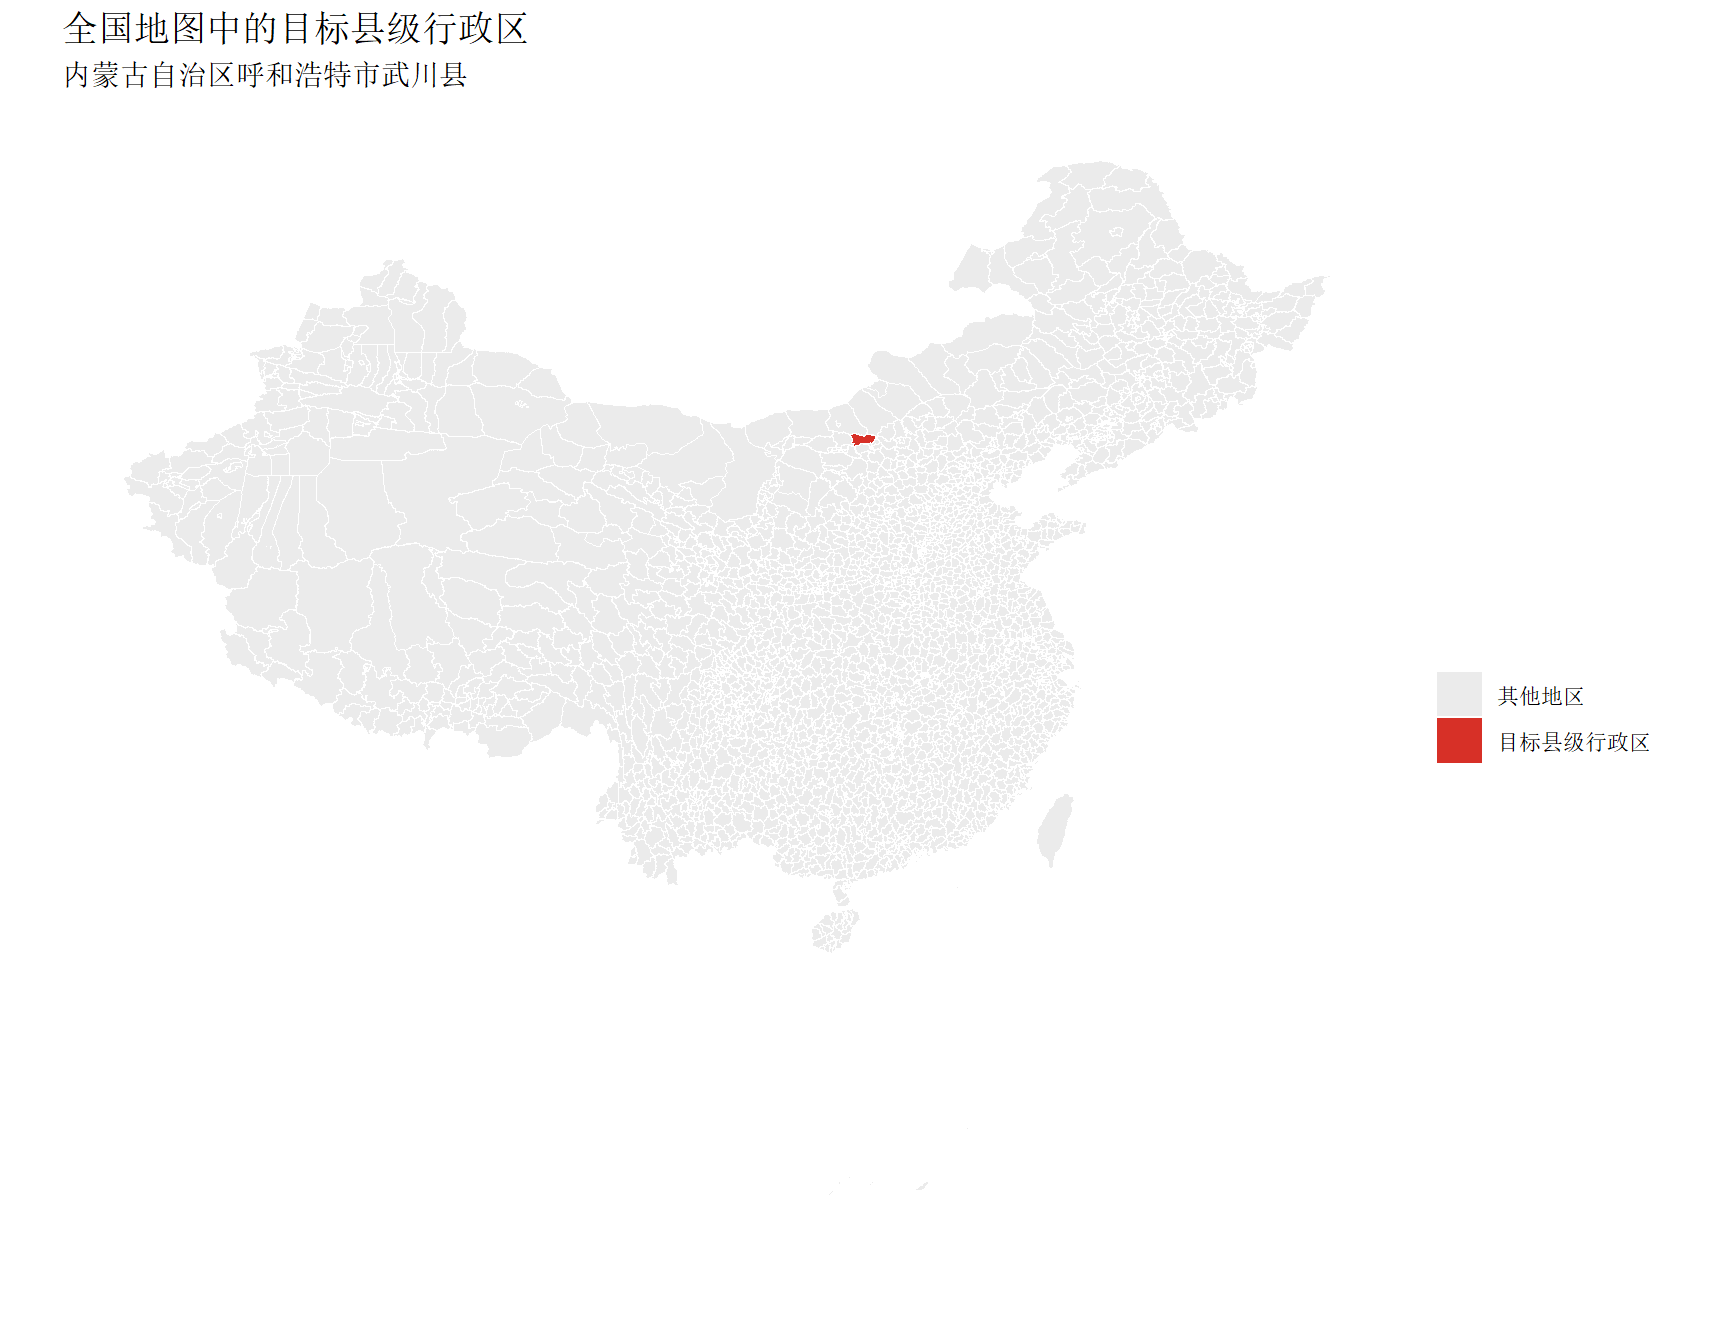
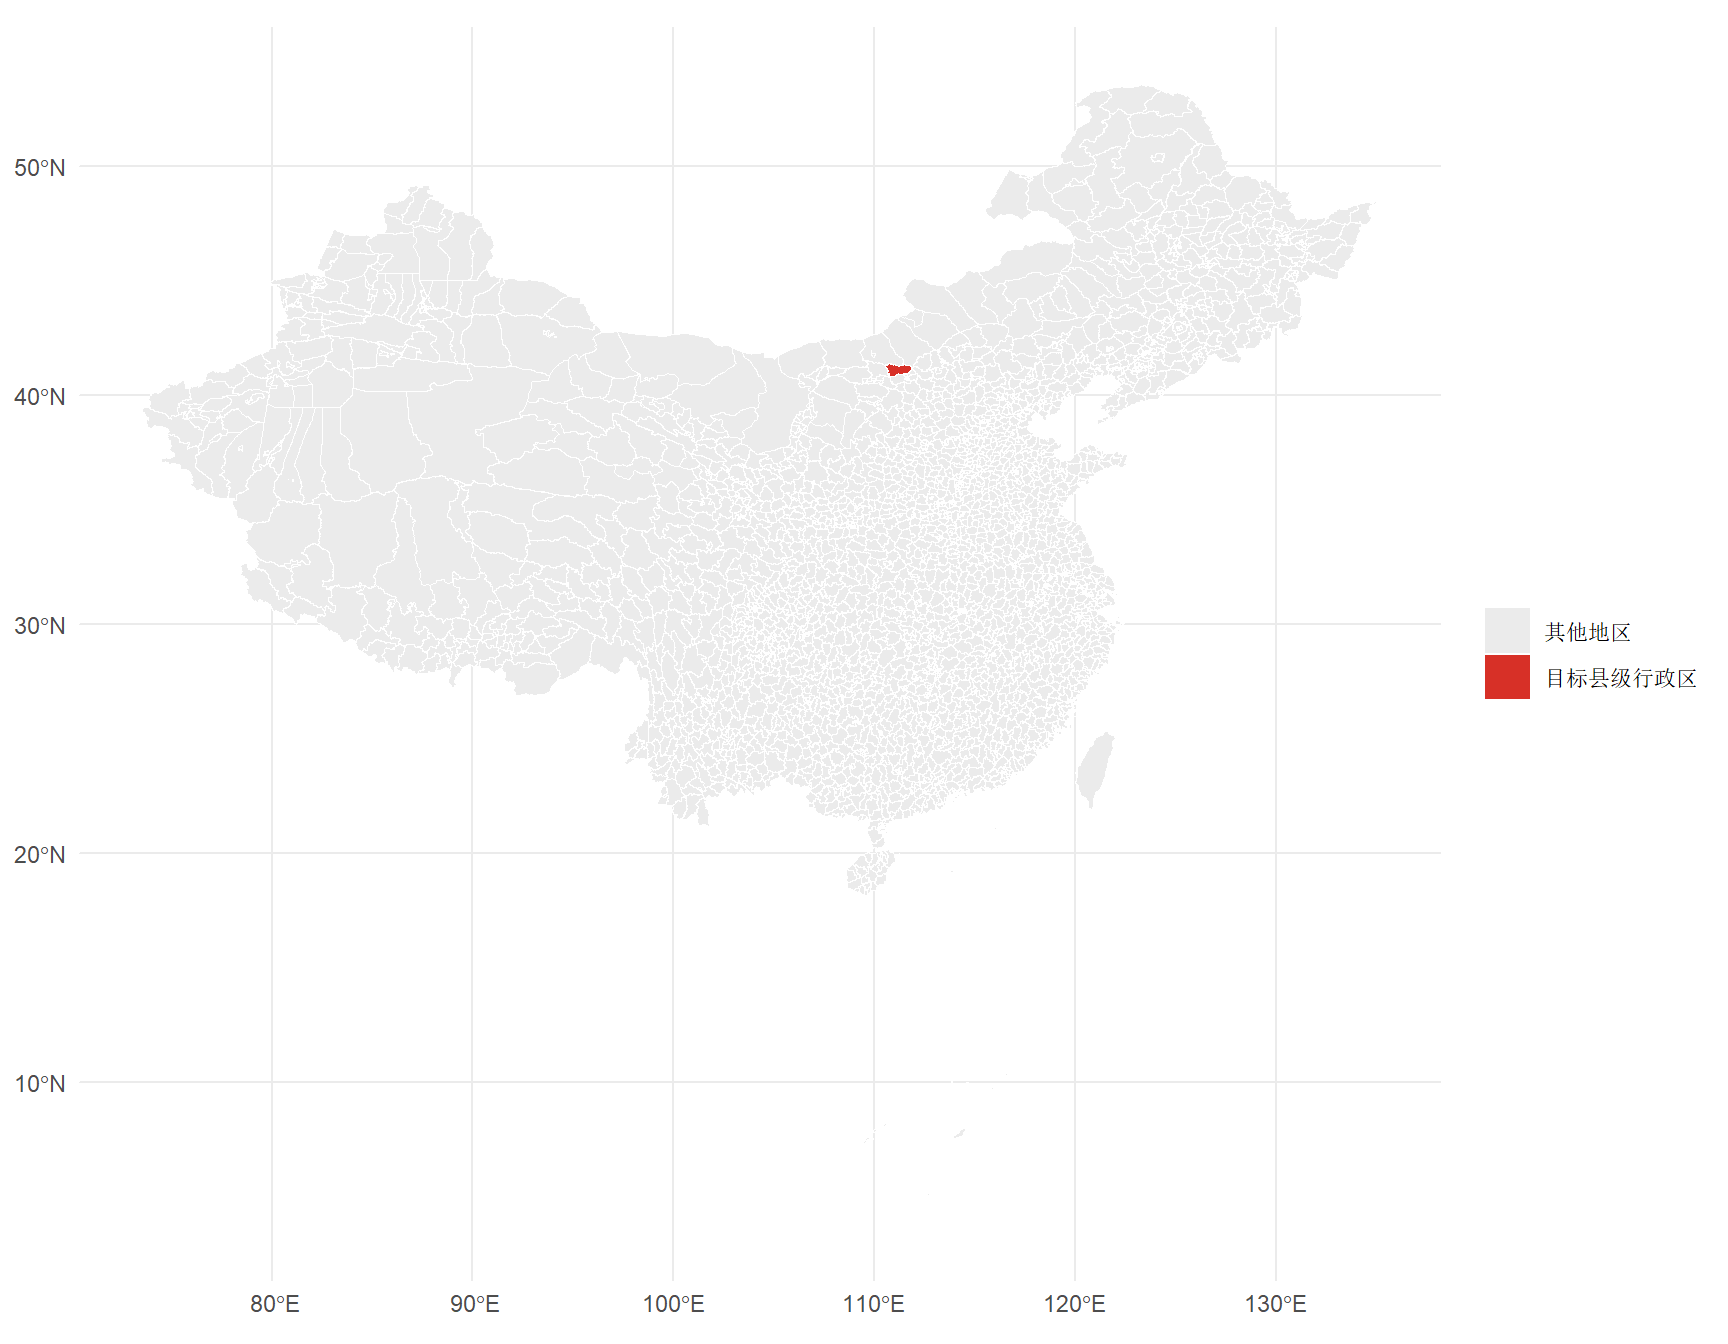
file manipulation

diff --git a/docs/lecture14.html b/docs/lecture14.html
@@ -249,7 +249,7 @@ pre > code.sourceCode > span > a:first-child::before { text-decoration: underlin
   <li><a href="#数据准备" id="toc-数据准备" class="nav-link" data-scroll-target="#数据准备"><span class="header-section-number">15.2</span> 数据准备</a></li>
   <li><a href="#读取空间数据" id="toc-读取空间数据" class="nav-link" data-scroll-target="#读取空间数据"><span class="header-section-number">15.3</span> 读取空间数据</a></li>
   <li><a href="#绘制最基本的全国县级地图" id="toc-绘制最基本的全国县级地图" class="nav-link" data-scroll-target="#绘制最基本的全国县级地图"><span class="header-section-number">15.4</span> 绘制最基本的全国县级地图</a></li>
-  <li><a href="#用-dplyr-理解和整理地图属性表" id="toc-用-dplyr-理解和整理地图属性表" class="nav-link" data-scroll-target="#用-dplyr-理解和整理地图属性表"><span class="header-section-number">15.5</span> 用 dplyr 理解和整理地图属性表</a></li>
+  <li><a href="#dplyr-整理地图属性表" id="toc-dplyr-整理地图属性表" class="nav-link" data-scroll-target="#dplyr-整理地图属性表"><span class="header-section-number">15.5</span> dplyr 整理地图属性表</a></li>
   <li><a href="#根据名称查找县级行政区划代码" id="toc-根据名称查找县级行政区划代码" class="nav-link" data-scroll-target="#根据名称查找县级行政区划代码"><span class="header-section-number">15.6</span> 根据名称查找县级行政区划代码</a></li>
   <li><a href="#设置家乡县级行政区划代码" id="toc-设置家乡县级行政区划代码" class="nav-link" data-scroll-target="#设置家乡县级行政区划代码"><span class="header-section-number">15.7</span> 设置家乡县级行政区划代码</a></li>
   <li><a href="#提取目标县级行政区" id="toc-提取目标县级行政区" class="nav-link" data-scroll-target="#提取目标县级行政区"><span class="header-section-number">15.8</span> 提取目标县级行政区</a></li>
@@ -292,7 +292,6 @@ pre > code.sourceCode > span > a:first-child::before { text-decoration: underlin
 <section id="本讲目标" class="level2" data-number="15.1">
 <h2 data-number="15.1" class="anchored" data-anchor-id="本讲目标"><span class="header-section-number">15.1</span> 本讲目标</h2>
 <p>本讲介绍如何在 R 中读取、整理并绘制中国县级行政区划地图。核心思路是：<strong>把空间数据理解为带有几何信息的数据框</strong>。在这个基础上，可以用 <code>dplyr</code> 整理属性表，用 <code>ggplot2</code> 绘制地图，用 <code>sf</code> 处理空间对象。</p>
-<p>本讲围绕一个完整任务展开：根据家乡县级行政区划代码，在全国、省域和市域地图中标记对应的县级行政区。完成该任务需要掌握以下内容：</p>
 <ol type="1">
 <li>Shapefile 的基本文件组成。</li>
 <li><code>sf::st_read()</code> 读取空间数据的方法。</li>
@@ -309,7 +308,7 @@ pre > code.sourceCode > span > a:first-child::before { text-decoration: underlin
 <section id="数据准备" class="level2" data-number="15.2">
 <h2 data-number="15.2" class="anchored" data-anchor-id="数据准备"><span class="header-section-number">15.2</span> 数据准备</h2>
 <p><strong>数据文件下载</strong></p>
-<p>本章使用中国区县级 Shapefile。由于 <code>.shp</code> 文件体积较大，不建议将数据打包为压缩文件上传到 GitHub。Shapefile 应按组成文件分别下载，并放在同一个项目工作目录中。</p>
+<p>本章使用中国区县级 Shapefile。Shapefile 应按组成文件分别下载，并放在同一个项目工作目录中。</p>
 <p>请分别下载以下文件：</p>
 <table class="caption-top table">
 <thead>
@@ -578,8 +577,8 @@ Geodetic CRS:  WGS 84
 <p>注意：当 <code>fill = "grey92"</code> 写在 <code>aes()</code> 外部时，表示所有区域使用同一种固定颜色。</p>
 <hr>
 </section>
-<section id="用-dplyr-理解和整理地图属性表" class="level2" data-number="15.5">
-<h2 data-number="15.5" class="anchored" data-anchor-id="用-dplyr-理解和整理地图属性表"><span class="header-section-number">15.5</span> 用 dplyr 理解和整理地图属性表</h2>
+<section id="dplyr-整理地图属性表" class="level2" data-number="15.5">
+<h2 data-number="15.5" class="anchored" data-anchor-id="dplyr-整理地图属性表"><span class="header-section-number">15.5</span> dplyr 整理地图属性表</h2>
 <p>空间数据首先也是数据表。地图绘制之前，通常需要先对属性表做整理。<code>dplyr</code> 的作用就是用清晰的语法完成这些整理工作。</p>
 <p><strong>管道符 <code>%&gt;%</code></strong></p>
 <p><code>%&gt;%</code> 读作“然后”。它把左侧结果传给右侧函数的第一个参数。</p>
@@ -856,16 +855,8 @@ Geodetic CRS:  WGS 84
 <span id="cb31-4"><a href="#cb31-4" aria-hidden="true" tabindex="-1"></a>    <span class="at">values =</span> <span class="fu">c</span>(<span class="st">"目标县级行政区"</span> <span class="ot">=</span> <span class="st">"#D73027"</span>, <span class="st">"其他地区"</span> <span class="ot">=</span> <span class="st">"grey92"</span>),</span>
 <span id="cb31-5"><a href="#cb31-5" aria-hidden="true" tabindex="-1"></a>    <span class="at">name =</span> <span class="cn">NULL</span></span>
 <span id="cb31-6"><a href="#cb31-6" aria-hidden="true" tabindex="-1"></a>  ) <span class="sc">+</span></span>
-<span id="cb31-7"><a href="#cb31-7" aria-hidden="true" tabindex="-1"></a>  <span class="fu">labs</span>(</span>
-<span id="cb31-8"><a href="#cb31-8" aria-hidden="true" tabindex="-1"></a>    <span class="at">title =</span> <span class="st">"全国地图中的目标县级行政区"</span>,</span>
-<span id="cb31-9"><a href="#cb31-9" aria-hidden="true" tabindex="-1"></a>    <span class="at">subtitle =</span> <span class="fu">paste0</span>(my_county<span class="sc">$</span>pr_name, my_county<span class="sc">$</span>ct_name, my_county<span class="sc">$</span>dt_name)</span>
-<span id="cb31-10"><a href="#cb31-10" aria-hidden="true" tabindex="-1"></a>  ) <span class="sc">+</span></span>
-<span id="cb31-11"><a href="#cb31-11" aria-hidden="true" tabindex="-1"></a>  <span class="fu">theme_minimal</span>() <span class="sc">+</span></span>
-<span id="cb31-12"><a href="#cb31-12" aria-hidden="true" tabindex="-1"></a>  <span class="fu">theme</span>(</span>
-<span id="cb31-13"><a href="#cb31-13" aria-hidden="true" tabindex="-1"></a>    <span class="at">axis.text =</span> <span class="fu">element_blank</span>(),</span>
-<span id="cb31-14"><a href="#cb31-14" aria-hidden="true" tabindex="-1"></a>    <span class="at">axis.ticks =</span> <span class="fu">element_blank</span>(),</span>
-<span id="cb31-15"><a href="#cb31-15" aria-hidden="true" tabindex="-1"></a>    <span class="at">panel.grid =</span> <span class="fu">element_blank</span>()</span>
-<span id="cb31-16"><a href="#cb31-16" aria-hidden="true" tabindex="-1"></a>  )</span></code></pre></div><button title="Copy to Clipboard" class="code-copy-button"><i class="bi"></i></button></div>
+<span id="cb31-7"><a href="#cb31-7" aria-hidden="true" tabindex="-1"></a>  </span>
+<span id="cb31-8"><a href="#cb31-8" aria-hidden="true" tabindex="-1"></a>  <span class="fu">theme_minimal</span>() </span></code></pre></div><button title="Copy to Clipboard" class="code-copy-button"><i class="bi"></i></button></div>
 </details>
 <div class="cell-output-display">
 <div>